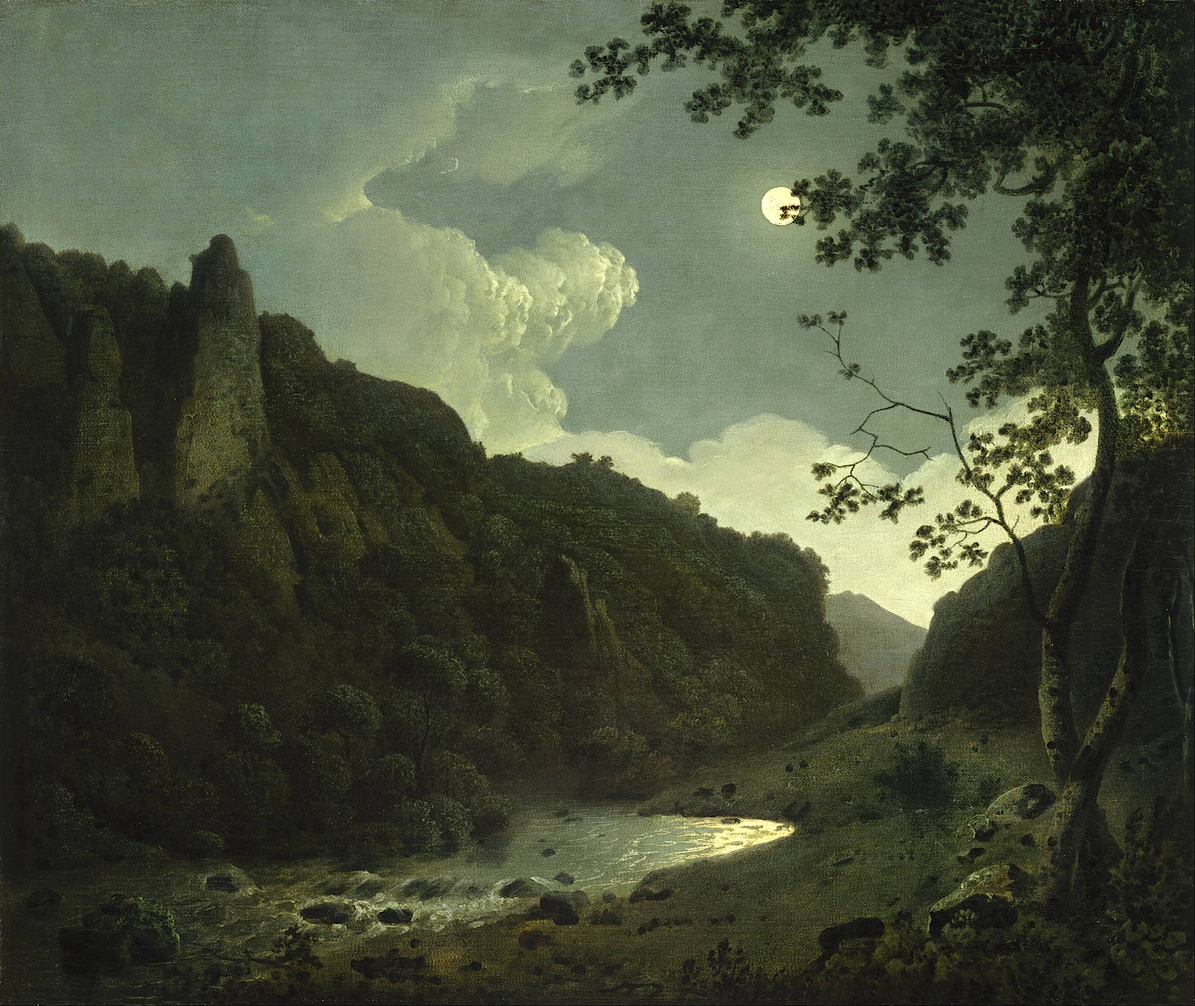
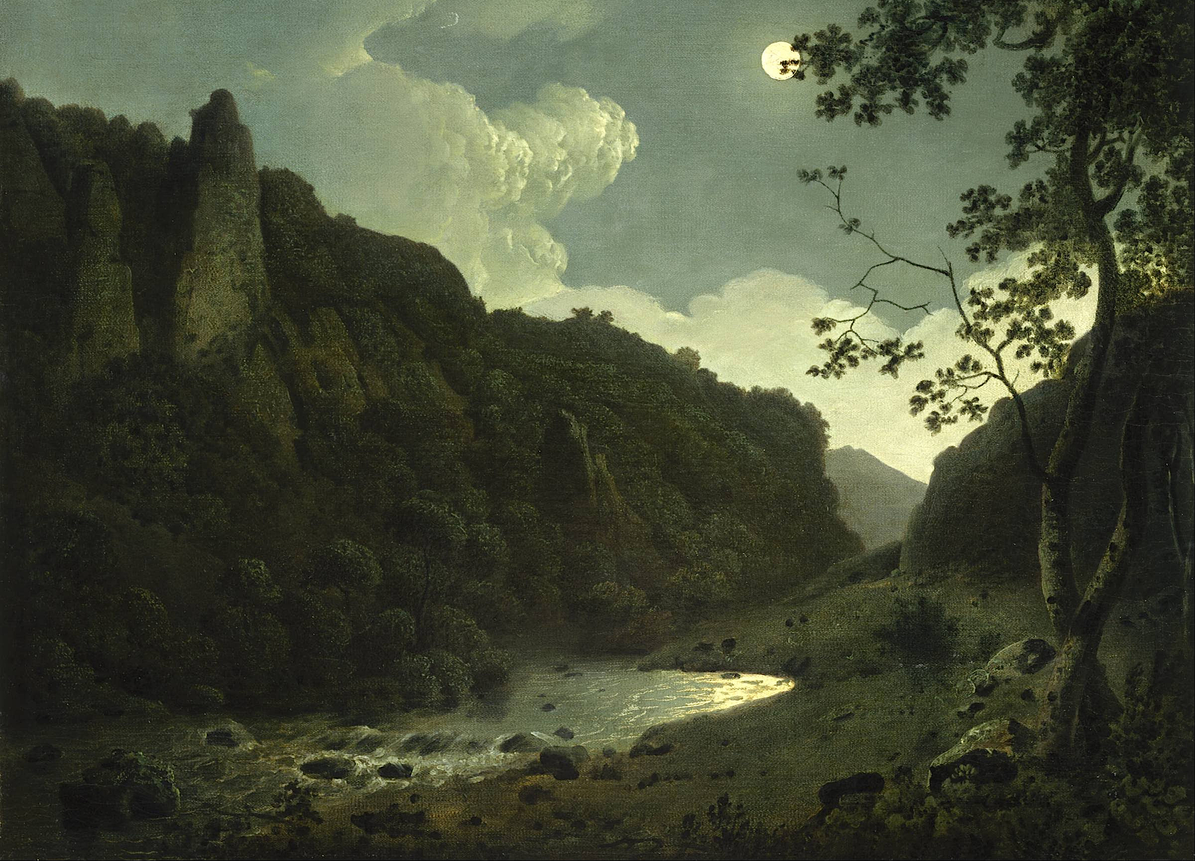
content updates

diff --git a/assets/css/core.css b/assets/css/core.css
@@ -1,9 +1,7 @@
 body {
     background-image: url('/assets/images/dovedale.jpg');
-    background-size: 100%;
-    background-position: 0px -200px;
-    background-color: var(--green-paint);
-    background-repeat: repeat;
+    background-color: var(--black-green);
+    background-repeat: no-repeat;
     display: flex;
     justify-content: center;
     margin: 4vh;
@@ -104,6 +102,9 @@ audio {
 }
 
 @media (max-width: 899px) {
+    body {
+        background-size: cover;
+    }
     #body-grid {
         display: flex;
         flex-direction: column;
@@ -127,6 +128,9 @@ audio {
 }
 
 @media (min-width: 900px) {
+    body {
+        background-size: 100%;
+    }
     #body-grid {
         width: var(--max-content-width);
         position: absolute;

diff --git a/assets/css/variables.css b/assets/css/variables.css
@@ -1,6 +1,7 @@
 :root {
     /* Colours */
     --background-texture: url('/assets/images/egg-shell.png');
+    --black-green: hsl(80, 15%, 9%);
     --green-paint: hsl(212, 42.5%, 47.5%);
     --soft-black: 48, 48, 61;
     --cave-blue: rgb(0, 94, 202);
